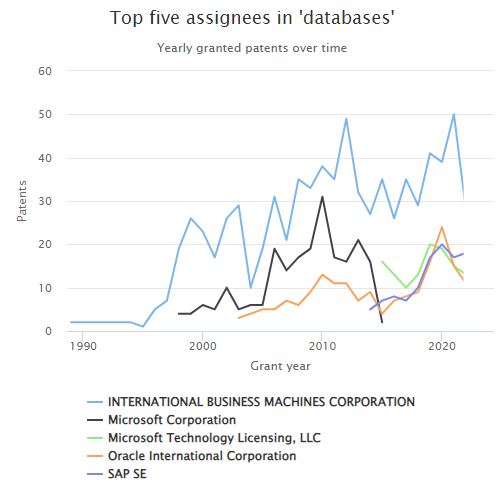
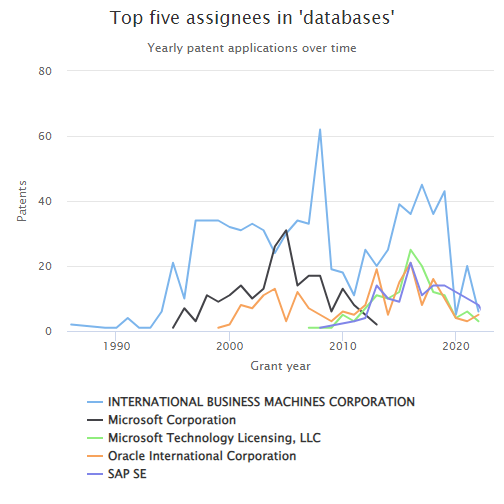
generated files

diff --git a/docs/articles/top-assignees.html b/docs/articles/top-assignees.html
@@ -145,19 +145,20 @@
     
     
 <blockquote>
-<p>Note about the affects of the <a href="api-changes.html">API
+<p>Note about the effects of the <a href="api-changes.html">API
 changes</a>.</p>
-<p>This is a good example of life under the new API, where we have to
-make more than one call to get the same data as before. This assumes
-that we have already received an API key and have set the environmental
-variable (see the API Changes page). Maybe even keep the old page around
-for comparison?</p>
+<p>This is a good example of life under the new version of the API,
+where we have to make more than one call to get the same data as before.
+This assumes that we have already received an API key and have set the
+environmental variable (see the API Changes page). Maybe even keep the
+old page around for comparison? For now the original Top Assignees page
+is <a href="https://docs.ropensci.org/patentsview/articles/top-assignees.html" class="external-link">here</a>.</p>
 <p>Intention:<br>
 The original version of this page used the patent’s application date in
-the plot below. In the new version of the API there a patent_year (the
-year the patent was granted, already of type integer) that we’ll use.
-Trouble is that the count is nested inside the patents structure, not
-inside the nested assignees. Fortunately both nested structures have
+the plot below. In the new version of the API there is a patent_year
+(the year the patent was granted, already of type integer) that we’ll
+use. Trouble is that the count is nested inside the patents structure,
+not inside the nested assignees. Fortunately both nested structures have
 patent_id as a field so we can join them to get the data we need.</p>
 <p>In the original version of this page we searched for database
 (singular) but now that produces a result set of over 10,000 rows.
@@ -184,19 +185,15 @@ PatentsView API:</li>
 <span><span class="kw"><a href="https://rdrr.io/r/base/library.html" class="external-link">library</a></span><span class="op">(</span><span class="va"><a href="https://github.com/rstudio/DT" class="external-link">DT</a></span><span class="op">)</span></span>
 <span><span class="kw"><a href="https://rdrr.io/r/base/library.html" class="external-link">library</a></span><span class="op">(</span><span class="va"><a href="https://yihui.org/knitr/" class="external-link">knitr</a></span><span class="op">)</span></span>
 <span></span>
-<span><span class="co"># With the recent API change that limits the overall result set size, we now look</span></span>
-<span><span class="co"># for databases (plural) where we used to use the singular database for this vignette.</span></span>
-<span><span class="co"># We also exclude patents without an assignee organization.</span></span>
-<span></span>
 <span><span class="co"># We first need to write a query. Our query will look for "databases" in either </span></span>
 <span><span class="co"># the patent title or abstract...Note, this isn't a terribly good way to ID our </span></span>
 <span><span class="co"># patents, but it will work for the purpose of demonstration. Users who are </span></span>
 <span><span class="co"># interested in writing higher-quality queries could consult the large body of </span></span>
 <span><span class="co"># research that has been done in field of patent document retrieval.</span></span>
 <span><span class="va">query</span> <span class="op">&lt;-</span> <span class="fu"><a href="../reference/with_qfuns.html">with_qfuns</a></span><span class="op">(</span></span>
-<span>  <span class="fu"><a href="https://magrittr.tidyverse.org/reference/aliases.html" class="external-link">and</a></span><span class="op">(</span></span>
+<span>  <span class="fu">and</span><span class="op">(</span></span>
 <span>     <span class="fu">neq</span><span class="op">(</span><span class="st">"assignees.assignee_organization"</span> <span class="op">=</span> <span class="st">""</span><span class="op">)</span>,</span>
-<span>     <span class="fu"><a href="https://magrittr.tidyverse.org/reference/aliases.html" class="external-link">or</a></span><span class="op">(</span></span>
+<span>     <span class="fu">or</span><span class="op">(</span></span>
 <span>       <span class="fu">text_phrase</span><span class="op">(</span>patent_abstract <span class="op">=</span> <span class="st">"databases"</span><span class="op">)</span>,</span>
 <span>       <span class="fu"><a href="https://tidyselect.r-lib.org/reference/starts_with.html" class="external-link">contains</a></span><span class="op">(</span>patent_title <span class="op">=</span> <span class="st">"databases"</span><span class="op">)</span></span>
 <span>     <span class="op">)</span></span>
@@ -206,11 +203,14 @@ PatentsView API:</li>
 <span><span class="va">query</span></span>
 <span><span class="co">#&gt; {"_and":[{"_neq":{"assignees.assignee_organization":""}},{"_or":[{"_text_phrase":{"patent_abstract":"databases"}},{"_contains":{"patent_title":"databases"}}]}]}</span></span>
 <span></span>
-<span><span class="co"># Create a list of the fields we'll need for the analysis</span></span>
+<span><span class="co"># Create a list of the fields we'll need for the analysis.</span></span>
+<span><span class="co"># We'll request both "patent_earliest_application_date" and</span></span>
+<span><span class="co"># "applications.filing_date" so that either could be used</span></span>
+<span><span class="co"># in the plot below</span></span>
 <span></span>
 <span><span class="va">fields</span> <span class="op">&lt;-</span> <span class="fu"><a href="https://rdrr.io/r/base/c.html" class="external-link">c</a></span><span class="op">(</span></span>
-<span>  <span class="st">"patent_id"</span>, <span class="st">"patent_date"</span>,<span class="st">"patent_year"</span>,</span>
-<span>  <span class="st">"patent_num_us_patents_cited"</span>,</span>
+<span>  <span class="st">"patent_id"</span>, <span class="st">"patent_date"</span>, <span class="st">"patent_year"</span>, <span class="st">"patent_earliest_application_date"</span>,</span>
+<span>  <span class="st">"patent_num_us_patents_cited"</span>, <span class="st">"application.filing_date"</span>,</span>
 <span>  <span class="st">"assignees.assignee_organization"</span>,</span>
 <span>  <span class="st">"assignees.assignee_id"</span>  <span class="co"># the assignee fields come back in a nested object</span></span>
 <span><span class="op">)</span></span>
@@ -222,12 +222,14 @@ PatentsView API:</li>
 <span><span class="co">#&gt; #### A list with a single data frame (with list column(s) inside) on patents level:</span></span>
 <span><span class="co">#&gt; </span></span>
 <span><span class="co">#&gt; List of 1</span></span>
-<span><span class="co">#&gt;  $ patents:'data.frame': 8937 obs. of  5 variables:</span></span>
-<span><span class="co">#&gt;   ..$ patent_id                  : chr [1:8937] "10000987" ...</span></span>
-<span><span class="co">#&gt;   ..$ patent_date                : chr [1:8937] "2018-06-19" ...</span></span>
-<span><span class="co">#&gt;   ..$ patent_year                : int [1:8937] 2018 2018 ...</span></span>
-<span><span class="co">#&gt;   ..$ patent_num_us_patents_cited: int [1:8937] 163 7 ...</span></span>
-<span><span class="co">#&gt;   ..$ assignees                  :List of 8937</span></span>
+<span><span class="co">#&gt;  $ patents:'data.frame': 8937 obs. of  7 variables:</span></span>
+<span><span class="co">#&gt;   ..$ patent_id                       : chr [1:8937] "10000987" ...</span></span>
+<span><span class="co">#&gt;   ..$ patent_date                     : chr [1:8937] "2018-06-19" ...</span></span>
+<span><span class="co">#&gt;   ..$ patent_year                     : int [1:8937] 2018 2018 ...</span></span>
+<span><span class="co">#&gt;   ..$ patent_earliest_application_date: chr [1:8937] "2014-02-20" ...</span></span>
+<span><span class="co">#&gt;   ..$ patent_num_us_patents_cited     : int [1:8937] 163 7 ...</span></span>
+<span><span class="co">#&gt;   ..$ application                     :List of 8937</span></span>
+<span><span class="co">#&gt;   ..$ assignees                       :List of 8937</span></span>
 <span><span class="co">#&gt; </span></span>
 <span><span class="co">#&gt; $query_results</span></span>
 <span><span class="co">#&gt; #### Distinct entity counts across all downloadable pages of output:</span></span>
@@ -240,60 +242,56 @@ patents these assignees have and what fraction of their total patents
 relate to databases.</li>
 </ol>
 <div class="sourceCode" id="cb2"><pre class="downlit sourceCode r">
-<code class="sourceCode R"><span><span class="co"># Unnest the data frames that are stored in the assignee list column</span></span>
+<code class="sourceCode R"><span></span>
+<span><span class="co"># Unnest the data frames that are stored in the assignee list column</span></span>
 <span><span class="va">dl</span> <span class="op">&lt;-</span> <span class="fu"><a href="../reference/unnest_pv_data.html">unnest_pv_data</a></span><span class="op">(</span><span class="va">pv_out</span><span class="op">$</span><span class="va">data</span>, <span class="st">"patent_id"</span><span class="op">)</span></span>
 <span><span class="va">dl</span></span>
-<span><span class="co">#&gt; List of 2</span></span>
-<span><span class="co">#&gt;  $ assignees:'data.frame':   8440 obs. of  3 variables:</span></span>
+<span><span class="co">#&gt; List of 3</span></span>
+<span><span class="co">#&gt;  $ application:'data.frame': 8937 obs. of  2 variables:</span></span>
+<span><span class="co">#&gt;   ..$ patent_id  : chr [1:8937] "10000987" ...</span></span>
+<span><span class="co">#&gt;   ..$ filing_date: chr [1:8937] "2014-02-20" ...</span></span>
+<span><span class="co">#&gt;  $ assignees  :'data.frame': 8440 obs. of  3 variables:</span></span>
 <span><span class="co">#&gt;   ..$ patent_id            : chr [1:8440] "10000987" ...</span></span>
 <span><span class="co">#&gt;   ..$ assignee             : chr [1:8440] "https://search.patentsview.org/api"..</span></span>
 <span><span class="co">#&gt;   ..$ assignee_organization: chr [1:8440] "National Oilwell Varco, L.P." ...</span></span>
-<span><span class="co">#&gt;  $ patents  :'data.frame':   8937 obs. of  4 variables:</span></span>
-<span><span class="co">#&gt;   ..$ patent_id                  : chr [1:8937] "10000987" ...</span></span>
-<span><span class="co">#&gt;   ..$ patent_date                : chr [1:8937] "2018-06-19" ...</span></span>
-<span><span class="co">#&gt;   ..$ patent_year                : int [1:8937] 2018 2018 ...</span></span>
-<span><span class="co">#&gt;   ..$ patent_num_us_patents_cited: int [1:8937] 163 7 ...</span></span>
-<span></span>
-<span><span class="co"># We shouldn't need the filter (we queried for non empty string orginazations) but</span></span>
-<span><span class="co"># some are NA somehow</span></span>
+<span><span class="co">#&gt;  $ patents    :'data.frame': 8937 obs. of  5 variables:</span></span>
+<span><span class="co">#&gt;   ..$ patent_id                       : chr [1:8937] "10000987" ...</span></span>
+<span><span class="co">#&gt;   ..$ patent_date                     : chr [1:8937] "2018-06-19" ...</span></span>
+<span><span class="co">#&gt;   ..$ patent_year                     : int [1:8937] 2018 2018 ...</span></span>
+<span><span class="co">#&gt;   ..$ patent_earliest_application_date: chr [1:8937] "2014-02-20" ...</span></span>
+<span><span class="co">#&gt;   ..$ patent_num_us_patents_cited     : int [1:8937] 163 7 ...</span></span>
 <span></span>
 <span><span class="co"># We don't get the assignee_total_num_patents back from the patent endpoint any longer.</span></span>
 <span><span class="co"># We'll have to make a call to the assignee endpoint once we know who the top 75</span></span>
 <span><span class="co"># assignees are.</span></span>
 <span></span>
-<span><span class="co"># Requested assignees.assignee_id comes back in the assignees object </span></span>
-<span><span class="co"># with key "assignee" and value like </span></span>
+<span><span class="co"># We requested assignees.assignee_id but it comes back in the assignees object</span></span>
+<span><span class="co"># with key "assignee" (the _id clipped off) and a GUID looking value ex:</span></span>
 <span><span class="co"># https://search.patentsview.org/api/v1/assignee/4e49a0a0-16c8-11ed-9b5f-1234bde3cd05/</span></span>
 <span><span class="co"># We want to parse out the assignee_ids, ex: 4e49a0a0-16c8-11ed-9b5f-1234bde3cd05</span></span>
+<span><span class="co"># (The API's documetation shows that the assignee URL parameter is the assignee_id)</span></span>
 <span></span>
 <span><span class="co"># Create a data frame with the top 75 assignees:</span></span>
 <span><span class="va">top_asgns</span> <span class="op">&lt;-</span></span>
 <span>  <span class="va">dl</span><span class="op">$</span><span class="va">assignees</span> <span class="op"><a href="https://magrittr.tidyverse.org/reference/pipe.html" class="external-link">%&gt;%</a></span></span>
-<span>    <span class="fu"><a href="https://dplyr.tidyverse.org/reference/filter.html" class="external-link">filter</a></span><span class="op">(</span><span class="op">!</span><span class="fu"><a href="https://rdrr.io/r/base/NA.html" class="external-link">is.na</a></span><span class="op">(</span><span class="va">assignee_organization</span><span class="op">)</span><span class="op">)</span> <span class="op"><a href="https://magrittr.tidyverse.org/reference/pipe.html" class="external-link">%&gt;%</a></span> <span class="co"># some patents are assigned to an inventor (not an org)</span></span>
-<span>    <span class="fu"><a href="https://dplyr.tidyverse.org/reference/mutate.html" class="external-link">mutate</a></span><span class="op">(</span>assignee_id <span class="op">=</span> <span class="fu"><a href="https://rdrr.io/r/base/grep.html" class="external-link">gsub</a></span><span class="op">(</span><span class="st">".*/([0-9]+)/$"</span>, <span class="st">"\\1"</span>, <span class="va">assignee</span><span class="op">)</span><span class="op">)</span> <span class="op"><a href="https://magrittr.tidyverse.org/reference/pipe.html" class="external-link">%&gt;%</a></span></span>
+<span>    <span class="fu"><a href="https://dplyr.tidyverse.org/reference/mutate.html" class="external-link">mutate</a></span><span class="op">(</span>assignee_id <span class="op">=</span> <span class="fu"><a href="https://rdrr.io/r/base/grep.html" class="external-link">sub</a></span><span class="op">(</span><span class="st">".*/([0-9a-f-]+)/$"</span>, <span class="st">"\\1"</span>, <span class="va">assignee</span><span class="op">)</span><span class="op">)</span> <span class="op"><a href="https://magrittr.tidyverse.org/reference/pipe.html" class="external-link">%&gt;%</a></span></span>
 <span>    <span class="fu"><a href="https://dplyr.tidyverse.org/reference/group_by.html" class="external-link">group_by</a></span><span class="op">(</span><span class="va">assignee_organization</span>, <span class="va">assignee_id</span><span class="op">)</span> <span class="op"><a href="https://magrittr.tidyverse.org/reference/pipe.html" class="external-link">%&gt;%</a></span> </span>
 <span>    <span class="fu"><a href="https://dplyr.tidyverse.org/reference/summarise.html" class="external-link">summarise</a></span><span class="op">(</span>db_pats <span class="op">=</span> <span class="fu"><a href="https://dplyr.tidyverse.org/reference/context.html" class="external-link">n</a></span><span class="op">(</span><span class="op">)</span><span class="op">)</span> <span class="op"><a href="https://magrittr.tidyverse.org/reference/pipe.html" class="external-link">%&gt;%</a></span> </span>
 <span>    <span class="fu"><a href="https://dplyr.tidyverse.org/reference/group_by.html" class="external-link">ungroup</a></span><span class="op">(</span><span class="op">)</span> <span class="op"><a href="https://magrittr.tidyverse.org/reference/pipe.html" class="external-link">%&gt;%</a></span></span>
 <span>    <span class="fu"><a href="https://dplyr.tidyverse.org/reference/arrange.html" class="external-link">arrange</a></span><span class="op">(</span><span class="fu"><a href="https://dplyr.tidyverse.org/reference/desc.html" class="external-link">desc</a></span><span class="op">(</span><span class="va">db_pats</span><span class="op">)</span><span class="op">)</span> <span class="op"><a href="https://magrittr.tidyverse.org/reference/pipe.html" class="external-link">%&gt;%</a></span></span>
 <span>    <span class="fu"><a href="https://dplyr.tidyverse.org/reference/slice.html" class="external-link">slice</a></span><span class="op">(</span><span class="fl">1</span><span class="op">:</span><span class="fl">75</span><span class="op">)</span></span>
 <span></span>
-<span><span class="co"># Now that we have the assignee_id's we can call the assignee endpoint to get the</span></span>
-<span><span class="co"># total number of patents for each of our top_asgns </span></span>
+<span><span class="co"># Now that we have the assignee_id's,  we can make a single call to the assignee</span></span>
+<span><span class="co"># endpoint to get the total number of patents for each of our top_asgns. (One</span></span>
+<span><span class="co"># call rather than 75 calls using the unparsed "assignee" URLs)</span></span>
 <span></span>
 <span><span class="va">assignee_query</span> <span class="op">=</span>  <span class="va">qry_funs</span><span class="op">$</span><span class="fu">eq</span><span class="op">(</span>assignee_id <span class="op">=</span> <span class="va">top_asgns</span><span class="op">$</span><span class="va">assignee_id</span><span class="op">)</span></span>
 <span></span>
-<span><span class="co">#*** This used to work but now the API returns no results from assignee_query,</span></span>
-<span><span class="co">#*** instead we'll try using assignee_organization, odd thing though, the</span></span>
-<span><span class="co">#*** query by assignee_organization only returns 72 rows, not 75 as we'd like</span></span>
-<span><span class="co">#*** Still it's an improvement over no rows</span></span>
-<span></span>
-<span><span class="va">assignee_query</span> <span class="op">=</span>  <span class="va">qry_funs</span><span class="op">$</span><span class="fu">eq</span><span class="op">(</span>assignee_organization <span class="op">=</span> <span class="va">top_asgns</span><span class="op">$</span><span class="va">assignee_organization</span><span class="op">)</span></span>
-<span></span>
 <span><span class="va">assignee_fields</span> <span class="op">&lt;-</span> <span class="fu"><a href="https://rdrr.io/r/base/c.html" class="external-link">c</a></span><span class="op">(</span></span>
-<span>  <span class="st">"assignee_id"</span>,<span class="st">"assignee_organization"</span>, <span class="st">"assignee_num_patents"</span> </span>
+<span>  <span class="st">"assignee_id"</span>, <span class="st">"assignee_organization"</span>, <span class="st">"assignee_num_patents"</span></span>
 <span><span class="op">)</span></span>
 <span></span>
-<span><span class="co"># we'll post to the API, the query is a pretty large string (an "or" of 75 assignee_ids)</span></span>
+<span><span class="co"># We'll post to the API, the query is a pretty large string (an "or" of 75 assignee_ids)</span></span>
 <span><span class="va">assignee_out</span> <span class="op">&lt;-</span> <span class="fu"><a href="../reference/search_pv.html">search_pv</a></span><span class="op">(</span><span class="va">assignee_query</span> , fields <span class="op">=</span> <span class="va">assignee_fields</span>, all_pages <span class="op">=</span> <span class="cn">TRUE</span>, </span>
 <span>   per_page <span class="op">=</span> <span class="fl">1000</span>, endpoint <span class="op">=</span> <span class="st">"assignee"</span>, method <span class="op">=</span> <span class="st">"POST"</span><span class="op">)</span></span>
 <span></span>
@@ -316,12 +314,16 @@ relate to databases.</li>
 <span>   <span class="fu"><a href="https://dplyr.tidyverse.org/reference/select.html" class="external-link">select</a></span><span class="op">(</span><span class="fu"><a href="https://rdrr.io/r/base/c.html" class="external-link">c</a></span><span class="op">(</span><span class="fl">1</span>, <span class="fl">3</span>, <span class="fl">2</span>, <span class="fl">4</span><span class="op">)</span><span class="op">)</span>  <span class="op"><a href="https://magrittr.tidyverse.org/reference/pipe.html" class="external-link">%&gt;%</a></span></span>
 <span>   <span class="fu"><a href="https://dplyr.tidyverse.org/reference/arrange.html" class="external-link">arrange</a></span><span class="op">(</span><span class="fu"><a href="https://dplyr.tidyverse.org/reference/desc.html" class="external-link">desc</a></span><span class="op">(</span><span class="va">db_pats</span><span class="op">)</span><span class="op">)</span></span>
 <span></span>
+<span><span class="co"># trying to avoid Error: Chromote: timed out waiting for event Page.loadEventFired</span></span>
+<span><span class="fu">knitr</span><span class="fu">::</span><span class="va"><a href="https://rdrr.io/pkg/knitr/man/opts_chunk.html" class="external-link">opts_chunk</a></span><span class="op">$</span><span class="fu">set</span><span class="op">(</span></span>
+<span>   delay <span class="op">=</span> <span class="fl">30</span></span>
+<span><span class="op">)</span></span>
 <span><span class="co"># Create datatable</span></span>
 <span><span class="fu"><a href="https://rdrr.io/pkg/DT/man/datatable.html" class="external-link">datatable</a></span><span class="op">(</span></span>
 <span>  data <span class="op">=</span> <span class="va">top_asgns</span>,</span>
 <span>  rownames <span class="op">=</span> <span class="cn">FALSE</span>,</span>
 <span>  colnames <span class="op">=</span> <span class="fu"><a href="https://rdrr.io/r/base/c.html" class="external-link">c</a></span><span class="op">(</span></span>
-<span>    <span class="st">"Assignee"</span>, <span class="st">"DB patents"</span>,<span class="st">"Total patents"</span>, <span class="st">"DB patents / total patents"</span></span>
+<span>    <span class="st">"Assignee"</span>, <span class="st">"DB patents"</span>, <span class="st">"Total patents"</span>, <span class="st">"DB patents / total patents"</span></span>
 <span>  <span class="op">)</span>,</span>
 <span>  caption <span class="op">=</span> <span class="fu">htmltools</span><span class="fu">::</span><span class="va"><a href="https://rstudio.github.io/htmltools/reference/builder.html" class="external-link">tags</a></span><span class="op">$</span><span class="fu">caption</span><span class="op">(</span></span>
 <span>    style <span class="op">=</span> <span class="st">'caption-side: top; text-align: left; font-style: italic;'</span>,</span>
@@ -341,30 +343,47 @@ changed over time.</li>
 </ol>
 <div class="sourceCode" id="cb3"><pre class="downlit sourceCode r">
 <code class="sourceCode R"><span></span>
-<span><span class="co"># The patent endpoint no longer returns application date as this page used originally</span></span>
-<span><span class="co"># Instead we will use the patent_year  (year the patent was granted, returned as an integer)</span></span>
+<span><span class="co"># Comment from the original version of this page:</span></span>
+<span><span class="co"># Create a data frame with patent counts by application year for each assignee</span></span>
+<span></span>
+<span><span class="co"># The patent endpoint can now return "patent_earliest_application_date"  and/or</span></span>
+<span><span class="co"># application.filing_date.  We requested both above so we can use either here</span></span>
+<span><span class="co"># to create app_yr.  The API's data dictionary (if one exists) would need to be</span></span>
+<span><span class="co"># consulted to find out how these fields differ. (There are data dictionaries for</span></span>
+<span><span class="co"># the bulk downloadable files, I'll follow up with the API team to see if there</span></span>
+<span><span class="co"># is one for the API.)</span></span>
+<span></span>
+<span><span class="co"># We'll use patent_earliest_application_date, we'd need an additional</span></span>
+<span><span class="co"># full_join(., dl$application) %&gt;%  if we want to use filing_date</span></span>
+<span><span class="co"># mutate(app_yr = as.numeric(substr(filing_date, 1, 4)))</span></span>
+<span></span>
+<span><span class="co"># As an aside, I don't think it's possible to querry the API for patents</span></span>
+<span><span class="co"># where the two fields differ, least not directly.  We could request both</span></span>
+<span><span class="co"># fields and look for differences ourselves but we can't query where</span></span>
+<span><span class="co"># {"_neq":{"patent_earliest_application_date":{"application.filing_date"}}</span></span>
 <span></span>
 <span><span class="co"># Get the top 5 organizations since slice wasn't working out in the full_join below.</span></span>
 <span><span class="co"># We want data to just be the top 5 assignees, not all 75 assignees</span></span>
 <span><span class="va">top_five</span> <span class="op">&lt;-</span> <span class="fu"><a href="https://rdrr.io/r/utils/head.html" class="external-link">head</a></span><span class="op">(</span><span class="va">top_asgns</span>, n <span class="op">=</span> <span class="fl">5</span><span class="op">)</span></span>
-<span>   </span>
+<span></span>
 <span><span class="va">data</span> <span class="op">&lt;-</span> </span>
 <span>   <span class="fu"><a href="https://dplyr.tidyverse.org/reference/mutate-joins.html" class="external-link">full_join</a></span><span class="op">(</span><span class="va">dl</span><span class="op">$</span><span class="va">assignees</span>, <span class="va">dl</span><span class="op">$</span><span class="va">patents</span><span class="op">)</span> <span class="op"><a href="https://magrittr.tidyverse.org/reference/pipe.html" class="external-link">%&gt;%</a></span></span>
-<span>   <span class="fu"><a href="https://dplyr.tidyverse.org/reference/group_by.html" class="external-link">group_by</a></span><span class="op">(</span><span class="va">assignee_organization</span>, <span class="va">patent_year</span><span class="op">)</span> <span class="op"><a href="https://magrittr.tidyverse.org/reference/pipe.html" class="external-link">%&gt;%</a></span></span>
+<span>   <span class="fu"><a href="https://dplyr.tidyverse.org/reference/mutate.html" class="external-link">mutate</a></span><span class="op">(</span>app_yr <span class="op">=</span> <span class="fu"><a href="https://rdrr.io/r/base/numeric.html" class="external-link">as.numeric</a></span><span class="op">(</span><span class="fu"><a href="https://rdrr.io/r/base/substr.html" class="external-link">substr</a></span><span class="op">(</span><span class="va">patent_earliest_application_date</span>, <span class="fl">1</span>, <span class="fl">4</span><span class="op">)</span><span class="op">)</span><span class="op">)</span> <span class="op"><a href="https://magrittr.tidyverse.org/reference/pipe.html" class="external-link">%&gt;%</a></span></span>
+<span>   <span class="fu"><a href="https://dplyr.tidyverse.org/reference/group_by.html" class="external-link">group_by</a></span><span class="op">(</span><span class="va">assignee_organization</span>, <span class="va">app_yr</span><span class="op">)</span> <span class="op"><a href="https://magrittr.tidyverse.org/reference/pipe.html" class="external-link">%&gt;%</a></span></span>
 <span>   <span class="fu"><a href="https://dplyr.tidyverse.org/reference/summarise.html" class="external-link">summarise</a></span><span class="op">(</span>n <span class="op">=</span> <span class="fu"><a href="https://dplyr.tidyverse.org/reference/context.html" class="external-link">n</a></span><span class="op">(</span><span class="op">)</span><span class="op">)</span> <span class="op"><a href="https://magrittr.tidyverse.org/reference/pipe.html" class="external-link">%&gt;%</a></span></span>
 <span>   <span class="fu"><a href="https://dplyr.tidyverse.org/reference/mutate-joins.html" class="external-link">inner_join</a></span><span class="op">(</span><span class="va">top_five</span><span class="op">)</span> <span class="op"><a href="https://magrittr.tidyverse.org/reference/pipe.html" class="external-link">%&gt;%</a></span></span>
-<span>   <span class="fu"><a href="https://dplyr.tidyverse.org/reference/select.html" class="external-link">select</a></span><span class="op">(</span><span class="va">assignee_organization</span>,<span class="va">patent_year</span>,<span class="va">n</span><span class="op">)</span></span>
+<span>   <span class="fu"><a href="https://dplyr.tidyverse.org/reference/select.html" class="external-link">select</a></span><span class="op">(</span><span class="va">assignee_organization</span>, <span class="va">app_yr</span>, <span class="va">n</span><span class="op">)</span></span>
 <span></span>
 <span><span class="co"># Plot the data using highcharter:</span></span>
 <span><span class="fu"><a href="https://jkunst.com/highcharter/reference/hchart.html" class="external-link">hchart</a></span><span class="op">(</span></span>
 <span>  <span class="va">data</span>, <span class="st">"line"</span>, </span>
-<span>  <span class="fu"><a href="https://jkunst.com/highcharter/reference/hcaes.html" class="external-link">hcaes</a></span><span class="op">(</span>x <span class="op">=</span> <span class="va">patent_year</span>, y <span class="op">=</span> <span class="va">n</span>, group <span class="op">=</span> <span class="va">assignee_organization</span><span class="op">)</span></span>
+<span>  <span class="fu"><a href="https://jkunst.com/highcharter/reference/hcaes.html" class="external-link">hcaes</a></span><span class="op">(</span>x <span class="op">=</span> <span class="va">app_yr</span>, y <span class="op">=</span> <span class="va">n</span>, group <span class="op">=</span> <span class="va">assignee_organization</span><span class="op">)</span></span>
 <span><span class="op">)</span> <span class="op"><a href="https://magrittr.tidyverse.org/reference/pipe.html" class="external-link">%&gt;%</a></span></span>
 <span>  <span class="fu"><a href="https://jkunst.com/highcharter/reference/hc_plotOptions.html" class="external-link">hc_plotOptions</a></span><span class="op">(</span>series <span class="op">=</span> <span class="fu"><a href="https://rdrr.io/r/base/list.html" class="external-link">list</a></span><span class="op">(</span>marker <span class="op">=</span> <span class="fu"><a href="https://rdrr.io/r/base/list.html" class="external-link">list</a></span><span class="op">(</span>enabled <span class="op">=</span> <span class="cn">FALSE</span><span class="op">)</span><span class="op">)</span><span class="op">)</span> <span class="op"><a href="https://magrittr.tidyverse.org/reference/pipe.html" class="external-link">%&gt;%</a></span></span>
 <span>  <span class="fu"><a href="https://jkunst.com/highcharter/reference/hc_xAxis.html" class="external-link">hc_xAxis</a></span><span class="op">(</span>title <span class="op">=</span> <span class="fu"><a href="https://rdrr.io/r/base/list.html" class="external-link">list</a></span><span class="op">(</span>text <span class="op">=</span> <span class="st">"Grant year"</span><span class="op">)</span><span class="op">)</span> <span class="op"><a href="https://magrittr.tidyverse.org/reference/pipe.html" class="external-link">%&gt;%</a></span></span>
 <span>  <span class="fu"><a href="https://jkunst.com/highcharter/reference/hc_yAxis.html" class="external-link">hc_yAxis</a></span><span class="op">(</span>title <span class="op">=</span> <span class="fu"><a href="https://rdrr.io/r/base/list.html" class="external-link">list</a></span><span class="op">(</span>text <span class="op">=</span> <span class="st">"Patents"</span><span class="op">)</span><span class="op">)</span> <span class="op"><a href="https://magrittr.tidyverse.org/reference/pipe.html" class="external-link">%&gt;%</a></span></span>
 <span>  <span class="fu"><a href="https://jkunst.com/highcharter/reference/hc_title.html" class="external-link">hc_title</a></span><span class="op">(</span>text <span class="op">=</span> <span class="st">"Top five assignees in 'databases'"</span><span class="op">)</span> <span class="op"><a href="https://magrittr.tidyverse.org/reference/pipe.html" class="external-link">%&gt;%</a></span></span>
-<span>  <span class="fu"><a href="https://jkunst.com/highcharter/reference/hc_subtitle.html" class="external-link">hc_subtitle</a></span><span class="op">(</span>text <span class="op">=</span> <span class="st">"Yearly granted patents over time"</span><span class="op">)</span></span></code></pre></div>
+<span>  <span class="fu"><a href="https://jkunst.com/highcharter/reference/hc_subtitle.html" class="external-link">hc_subtitle</a></span><span class="op">(</span>text <span class="op">=</span> <span class="st">"Yearly patent applications over time"</span><span class="op">)</span></span></code></pre></div>
 <p><img src="figure/topchart-1.png"></p>
 <p>It’s hard to see any clear trends in this graph. What is clear is
 that the top assignees have all been patenting in the field for many

diff --git a/docs/articles/writing-queries.html b/docs/articles/writing-queries.html
@@ -198,13 +198,13 @@ you could write such a query:</p>
 <span></span>
 <span><span class="va">query_v_3</span> <span class="op">&lt;-</span> </span>
 <span>  <span class="fu"><a href="../reference/with_qfuns.html">with_qfuns</a></span><span class="op">(</span></span>
-<span>    <span class="fu"><a href="https://magrittr.tidyverse.org/reference/aliases.html" class="external-link">and</a></span><span class="op">(</span></span>
+<span>    <span class="fu">and</span><span class="op">(</span></span>
 <span>      <span class="fu">gte</span><span class="op">(</span>patent_date <span class="op">=</span> <span class="st">"2007-03-01"</span><span class="op">)</span>,</span>
-<span>      <span class="fu"><a href="https://magrittr.tidyverse.org/reference/aliases.html" class="external-link">or</a></span><span class="op">(</span></span>
+<span>      <span class="fu">or</span><span class="op">(</span></span>
 <span>        <span class="fu"><a href="https://tidyselect.r-lib.org/reference/starts_with.html" class="external-link">contains</a></span><span class="op">(</span>patent_title <span class="op">=</span> <span class="st">"dog"</span><span class="op">)</span>,</span>
 <span>        <span class="fu">text_all</span><span class="op">(</span>patent_abstract <span class="op">=</span> <span class="st">"dog"</span><span class="op">)</span></span>
 <span>      <span class="op">)</span>,</span>
-<span>      <span class="fu"><a href="https://magrittr.tidyverse.org/reference/aliases.html" class="external-link">or</a></span><span class="op">(</span></span>
+<span>      <span class="fu">or</span><span class="op">(</span></span>
 <span>        <span class="fu">text_phrase</span><span class="op">(</span>inventors.inventor_country <span class="op">=</span> <span class="st">"US"</span><span class="op">)</span>,</span>
 <span>        <span class="fu">text_phrase</span><span class="op">(</span>inventors.inventor_country <span class="op">=</span> <span class="st">"CA"</span><span class="op">)</span></span>
 <span>      <span class="op">)</span></span>
@@ -316,13 +316,14 @@ don’t have the word “hi” in their titles like this:
 <div class="section level2">
 <h2 id="query-examples">Query examples<a class="anchor" aria-label="anchor" href="#query-examples"></a>
 </h2>
-<p><em>The following queries are intended for the patent
-endpoint</em></p>
-<p>Patents linked to an assignee with 10 or fewer distinct (and
-disambiguated) inventors:</p>
+<p>Query the assignee endpoint for disambiguated assignees with 10 or
+fewer patents:</p>
 <div class="sourceCode" id="cb5"><pre class="downlit sourceCode r">
-<code class="sourceCode R"><span><span class="va">qry_funs</span><span class="op">$</span><span class="fu">lte</span><span class="op">(</span>num_inventors <span class="op">=</span> <span class="fl">10</span><span class="op">)</span></span>
-<span><span class="co">#&gt; {"_lte":{"num_inventors":10}}</span></span></code></pre></div>
+<code class="sourceCode R"><span></span>
+<span><span class="va">qry_funs</span><span class="op">$</span><span class="fu">lte</span><span class="op">(</span>assignee_num_inventors.num_inventors <span class="op">=</span> <span class="fl">10</span><span class="op">)</span></span>
+<span><span class="co">#&gt; {"_lte":{"assignee_num_inventors.num_inventors":10}}</span></span></code></pre></div>
+<p>The remaining examples are queries intended for the patent
+enpoint</p>
 <p>Patents assigned to the “CPC class” of G12 (physics instruments):</p>
 <div class="sourceCode" id="cb6"><pre class="downlit sourceCode r">
 <code class="sourceCode R"><span><span class="va">qry_funs</span><span class="op">$</span><span class="fu">eq</span><span class="op">(</span>cpc_current.cpc_class_id <span class="op">=</span> <span class="st">"G12"</span><span class="op">)</span></span>
@@ -338,10 +339,10 @@ it:</li>
 <div class="sourceCode" id="cb7"><pre class="downlit sourceCode r">
 <code class="sourceCode R"><span></span>
 <span><span class="fu"><a href="../reference/with_qfuns.html">with_qfuns</a></span><span class="op">(</span></span>
-<span>  <span class="fu"><a href="https://magrittr.tidyverse.org/reference/aliases.html" class="external-link">and</a></span><span class="op">(</span></span>
+<span>  <span class="fu">and</span><span class="op">(</span></span>
 <span>    <span class="fu">text_any</span><span class="op">(</span>inventors.inventor_name_first <span class="op">=</span> <span class="st">"kevin"</span><span class="op">)</span>,  <span class="co"># inventor names are now full text</span></span>
 <span>    <span class="fu">text_phrase</span><span class="op">(</span>patent_abstract <span class="op">=</span> <span class="fu"><a href="https://rdrr.io/r/base/c.html" class="external-link">c</a></span><span class="op">(</span><span class="st">"dog bark"</span>, <span class="st">"cat meow"</span><span class="op">)</span><span class="op">)</span>,</span>
-<span>    <span class="fu"><a href="https://magrittr.tidyverse.org/reference/aliases.html" class="external-link">not</a></span><span class="op">(</span></span>
+<span>    <span class="fu">not</span><span class="op">(</span></span>
 <span>      <span class="fu">text_phrase</span><span class="op">(</span>patent_abstract <span class="op">=</span> <span class="fu"><a href="https://rdrr.io/r/base/c.html" class="external-link">c</a></span><span class="op">(</span><span class="st">"dog chain"</span><span class="op">)</span><span class="op">)</span></span>
 <span>    <span class="op">)</span></span>
 <span>  <span class="op">)</span></span>
@@ -359,18 +360,18 @@ it:</li>
 </ul>
 <div class="sourceCode" id="cb8"><pre class="downlit sourceCode r">
 <code class="sourceCode R"><span><span class="fu"><a href="../reference/with_qfuns.html">with_qfuns</a></span><span class="op">(</span></span>
-<span>  <span class="fu"><a href="https://magrittr.tidyverse.org/reference/aliases.html" class="external-link">or</a></span><span class="op">(</span></span>
-<span>    <span class="fu"><a href="https://magrittr.tidyverse.org/reference/aliases.html" class="external-link">and</a></span><span class="op">(</span></span>
-<span>      <span class="fu">eq</span><span class="op">(</span>inventors.inventor_name_last <span class="op">=</span> <span class="st">"smith"</span><span class="op">)</span>,</span>
+<span>  <span class="fu">or</span><span class="op">(</span></span>
+<span>    <span class="fu">and</span><span class="op">(</span></span>
+<span>      <span class="fu">eq</span><span class="op">(</span>inventors.inventor_name_last <span class="op">=</span> <span class="st">"Smith"</span><span class="op">)</span>,</span>
 <span>      <span class="fu"><a href="https://tidyselect.r-lib.org/reference/starts_with.html" class="external-link">contains</a></span><span class="op">(</span>patent_title <span class="op">=</span> <span class="st">"cotton gin"</span><span class="op">)</span></span>
 <span>    <span class="op">)</span>,</span>
-<span>    <span class="fu"><a href="https://magrittr.tidyverse.org/reference/aliases.html" class="external-link">and</a></span><span class="op">(</span></span>
-<span>      <span class="fu">eq</span><span class="op">(</span>inventors.inventor_name_last <span class="op">=</span> <span class="st">"turner"</span><span class="op">)</span>,</span>
+<span>    <span class="fu">and</span><span class="op">(</span></span>
+<span>      <span class="fu">eq</span><span class="op">(</span>inventors.inventor_name_last <span class="op">=</span> <span class="st">"Turner"</span><span class="op">)</span>,</span>
 <span>      <span class="fu"><a href="https://tidyselect.r-lib.org/reference/starts_with.html" class="external-link">contains</a></span><span class="op">(</span>patent_title <span class="op">=</span> <span class="st">"COBOL"</span><span class="op">)</span></span>
 <span>    <span class="op">)</span></span>
 <span>  <span class="op">)</span></span>
 <span><span class="op">)</span></span>
-<span><span class="co">#&gt; {"_or":[{"_and":[{"_eq":{"inventors.inventor_name_last":"smith"}},{"_contains":{"patent_title":"cotton gin"}}]},{"_and":[{"_eq":{"inventors.inventor_name_last":"turner"}},{"_contains":{"patent_title":"COBOL"}}]}]}</span></span></code></pre></div>
+<span><span class="co">#&gt; {"_or":[{"_and":[{"_eq":{"inventors.inventor_name_last":"Smith"}},{"_contains":{"patent_title":"cotton gin"}}]},{"_and":[{"_eq":{"inventors.inventor_name_last":"Turner"}},{"_contains":{"patent_title":"COBOL"}}]}]}</span></span></code></pre></div>
 </div>
 
   </main><aside class="col-md-3"><nav id="toc"><h2>On this page</h2>

diff --git a/docs/articles/getting-started.html b/docs/articles/getting-started.html
@@ -213,7 +213,7 @@ using one of the functions in the DSL, <code>qry_funs$gte()</code>:</p>
 <p>More complex queries are also possible:</p>
 <div class="sourceCode" id="cb3"><pre class="downlit sourceCode r">
 <code class="sourceCode R"><span><span class="fu"><a href="../reference/with_qfuns.html">with_qfuns</a></span><span class="op">(</span></span>
-<span>  <span class="fu"><a href="https://magrittr.tidyverse.org/reference/aliases.html" class="external-link">and</a></span><span class="op">(</span></span>
+<span>  <span class="fu">and</span><span class="op">(</span></span>
 <span>    <span class="fu">gte</span><span class="op">(</span>patent_date <span class="op">=</span> <span class="st">"2007-01-01"</span><span class="op">)</span>,</span>
 <span>    <span class="fu">text_phrase</span><span class="op">(</span>patent_abstract <span class="op">=</span> <span class="fu"><a href="https://rdrr.io/r/base/c.html" class="external-link">c</a></span><span class="op">(</span><span class="st">"computer program"</span>, <span class="st">"dog leash"</span><span class="op">)</span><span class="op">)</span></span>
 <span>  <span class="op">)</span></span>
@@ -265,7 +265,7 @@ default set. You can specify which fields you want using the
 UI page</a> for the API, the fields returned are listed for each
 endpoint in the 200 Response body sections.</p>
 <p>You can also visit an endpoint’s online documentation page to see a
-list of its retrievable fields (e.g., see the <a href="https://search.patentsview.org/docs/docs/Search%20API/SearchAPIReference/#inventor" class="external-link">inventor
+list of its fields (e.g., see the <a href="https://search.patentsview.org/docs/docs/Search%20API/SearchAPIReference/#inventor" class="external-link">inventor
 field list table</a>). In earlier versions of the API not all fields
 were queryable as they are now. The field tables for all of the
 endpoints can be found in the <code>fieldsdf</code> data frame, which
@@ -493,9 +493,9 @@ problem.</p>
 </h4>
 <p>Yes, the API currently allows 45 calls per minute for each API key.
 If this limit is exceeded the API will return an http status of 429 with
-a response header Retry-After set to the number of seconds to wait until
-making subsequent requests. The R package should handle this for you.
-You will need to <a href="https://patentsview.org/apis/keyrequest" class="external-link">request an API key</a>
+a response header Retry-After set to the number of seconds to wait
+before making subsequent requests. The R package should handle this for
+you. You will need to <a href="https://patentsview.org/apis/keyrequest" class="external-link">request an API key</a>
 and set the environmental variable PATENTSVIEW_API_KEY to the value of
 your key.</p>
 </div>
@@ -755,7 +755,7 @@ field that can act as a unique identifier for the primary entities:</li>
 <p>Now we are left with a series of flat data frames instead of having a
 single data frame with other data frames nested inside of it. These flat
 data frames can be joined together as needed via the primary key
-(<code>assignee_id</code>).</p>
+(<code>patent_id</code>).</p>
 </div>
 </div>
 
